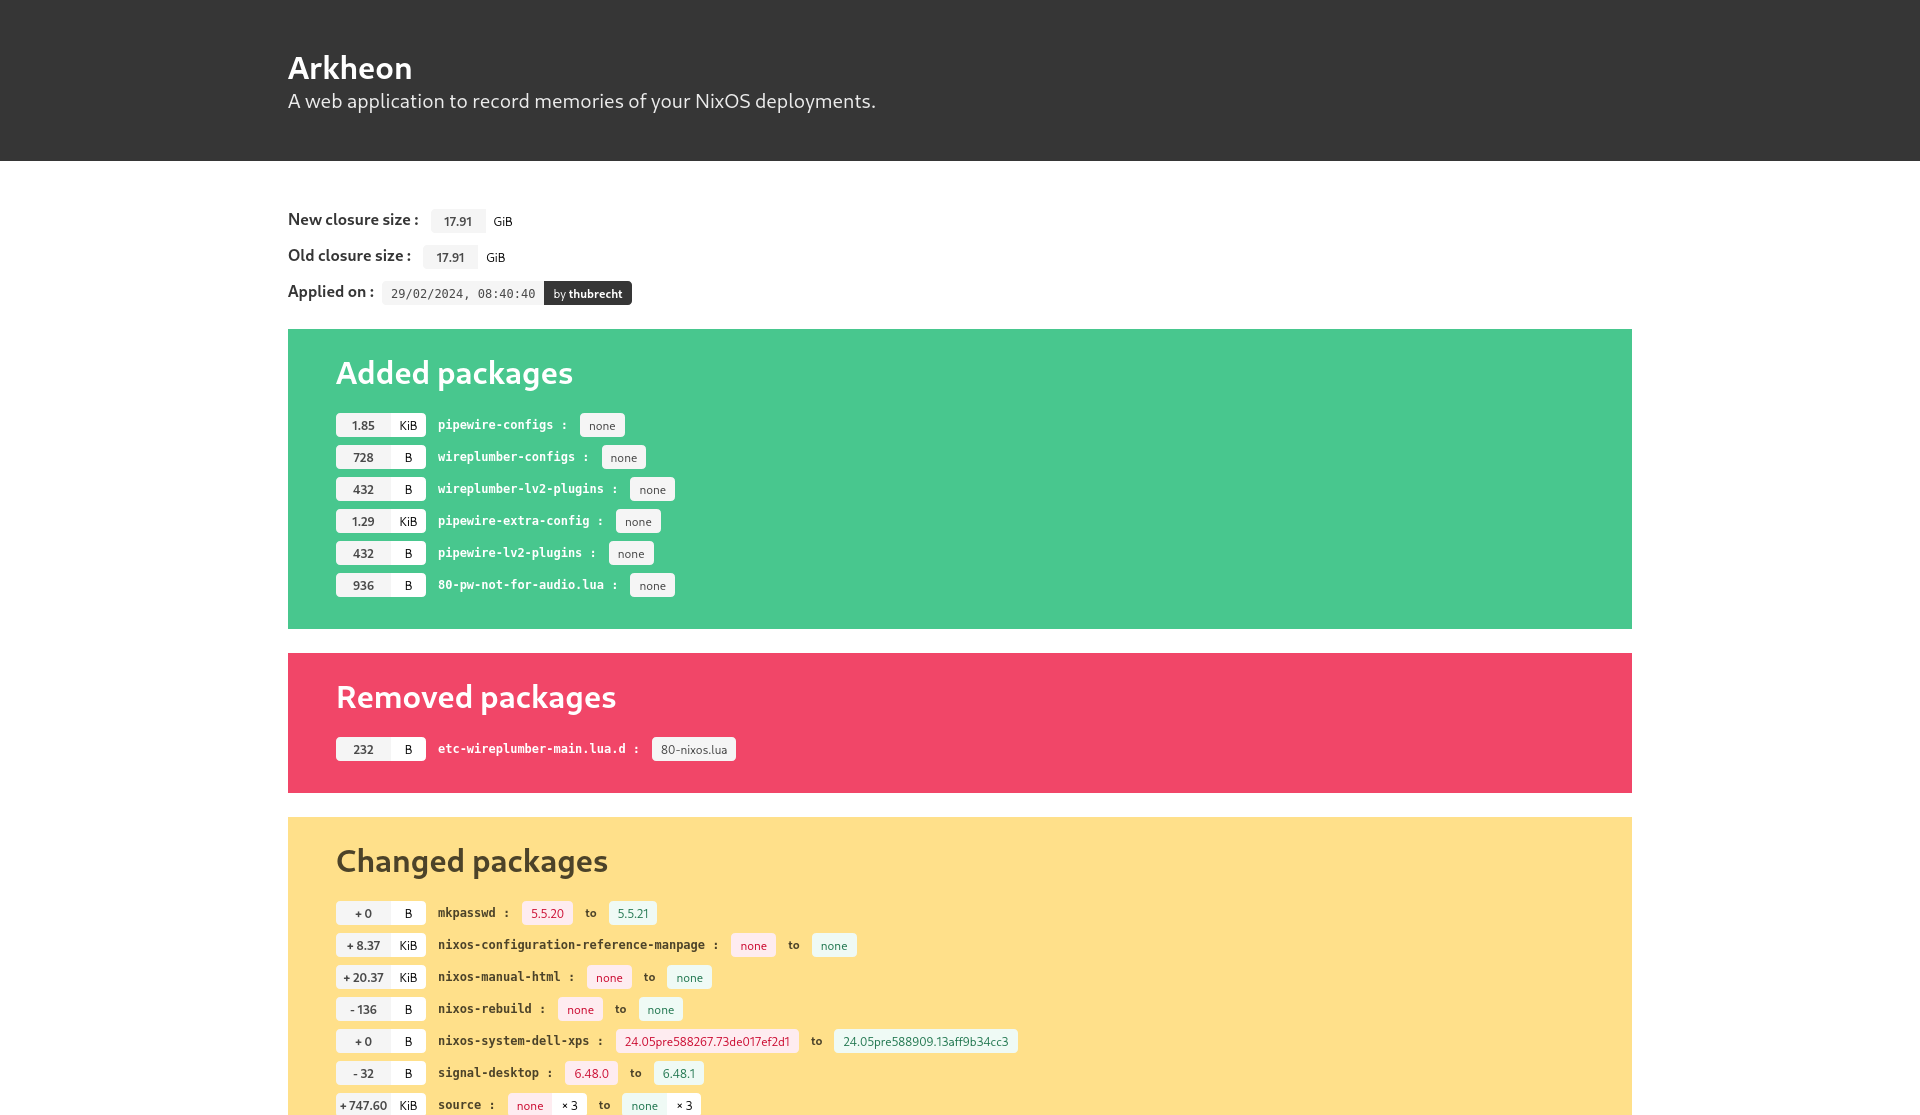
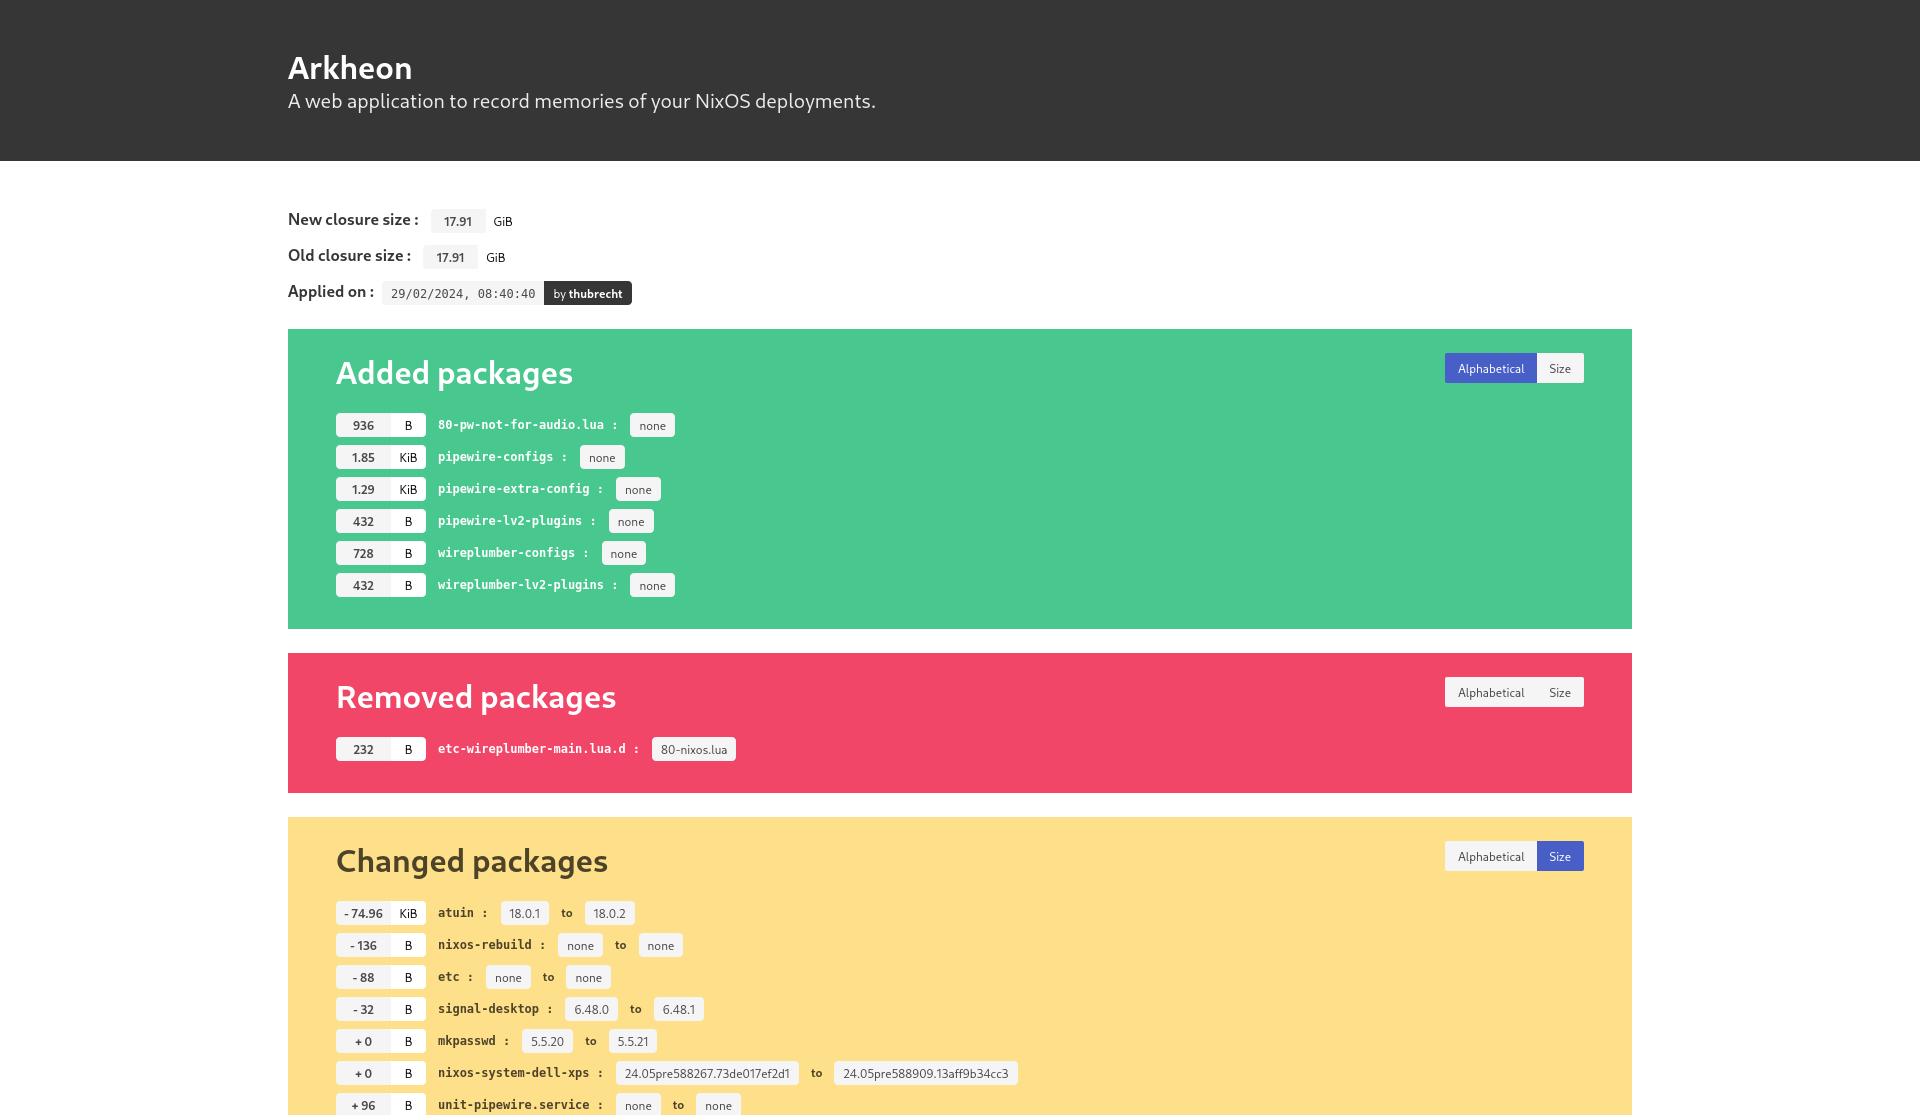
feat(frontend): Allow sorting

diff --git a/src/frontend/src/models/PackageList.tsx b/src/frontend/src/models/PackageList.tsx
@@ -1,20 +1,71 @@
-import { Component, For, Show } from "solid-js";
+import { Component, For, Show, createSignal } from "solid-js";
 import { Version } from "../components/Version";
 import { Size } from "../components/Size";
+
+const enum Sort {
+  Alphabetical = "Alphabetical",
+  Size = "Size",
+  None = "None",
+}
+
+const delta = (p: Package): number =>
+  p.size - (p.previous ? p.previous.size : 0);
 
 export const PackageList: Component<{
   title: string;
   color: "danger" | "success" | "warning";
   entries: Package[];
 }> = ({ entries, color, title }) => {
-  // const [sort, setSort] = createSignal(Sort.None);
-  //
+  const [sort, setSort] = createSignal(Sort.None);
+  const [pkgs, setPkgs] = createSignal(entries, { equals: false });
+
+  const Switch: Component<{ value: Sort }> = ({ value }) => {
+    return (
+      <p class="control">
+        <button
+          class="button is-small"
+          classList={{
+            "is-link": sort() === value,
+            "is-light": sort() !== value,
+            // TODO: Add loading indication (using async ?)
+            // "is-loading": loading(),
+          }}
+          onclick={() => updateSort(value)}
+        >
+          {value}
+        </button>
+      </p>
+    );
+  };
+
+  const updateSort = (s: Sort) => {
+    if (s === sort()) return;
+
+    setSort(s);
+
+    switch (s) {
+      case Sort.Alphabetical:
+        setPkgs((pkgs) => pkgs.sort((a, b) => a.name.localeCompare(b.name)));
+        break;
+      case Sort.Size:
+        setPkgs((pkgs) => pkgs.sort((a, b) => delta(a) - delta(b)));
+        break;
+    }
+  };
+
   return (
     <Show when={entries.length > 0}>
       <section class={`hero is-${color} block`}>
         <div class="hero-body py-5">
+          <div class="field has-addons is-pulled-right">
+            <Switch value={Sort.Alphabetical} />
+
+            <Switch value={Sort.Size} />
+          </div>
+
           <h2 class="title">{title}</h2>
-          <For each={entries}>
+
+          <For each={pkgs()}>
             {({ name, size, versions, previous = null }) => (
               <div class="field is-grouped pkg">
                 <Show when={previous} fallback={<Size bytes={size} />}>

diff --git a/src/frontend/src/sass/bulma.sass b/src/frontend/src/sass/bulma.sass
@@ -8,6 +8,7 @@
 @import "sass/layout/_all"
 
 @import "sass/elements/container"
+@import "sass/elements/button"
 @import "sass/elements/other"
 @import "sass/elements/title"
 @import "sass/elements/tag"
